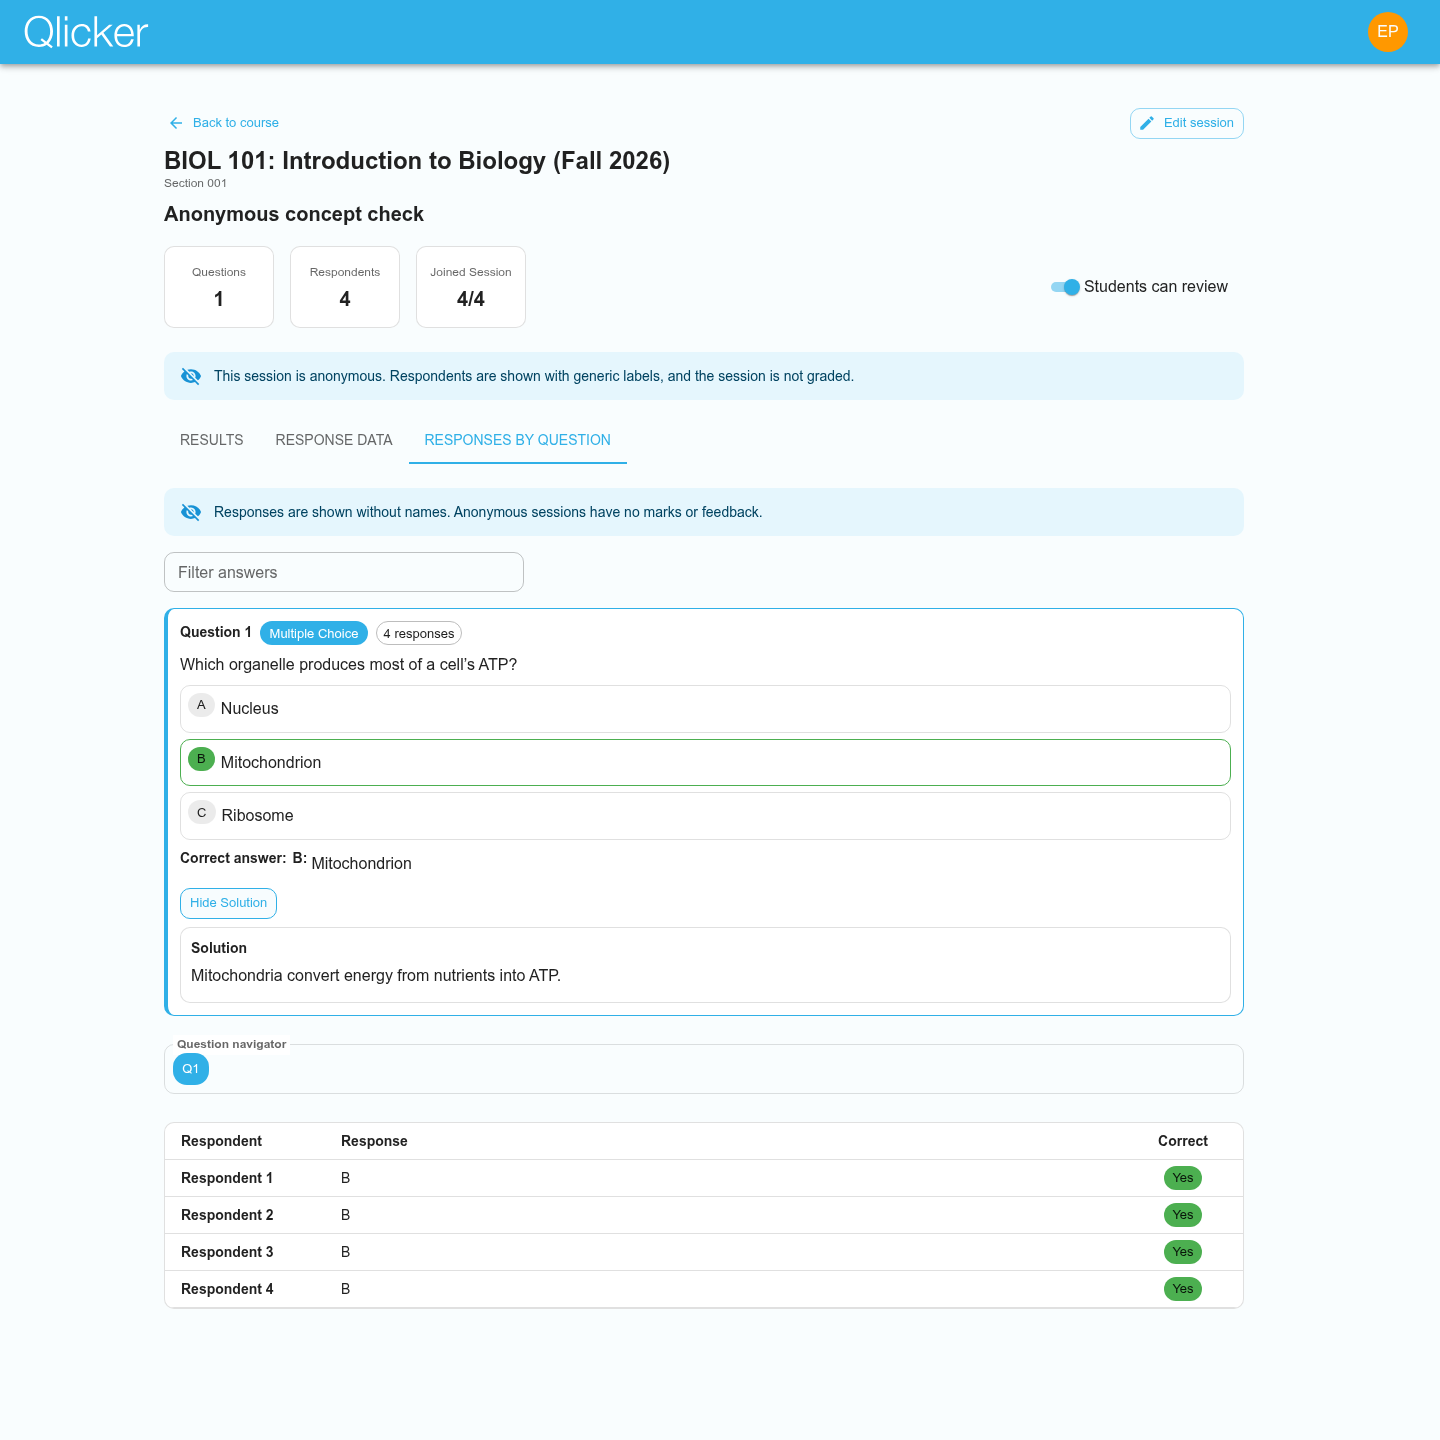
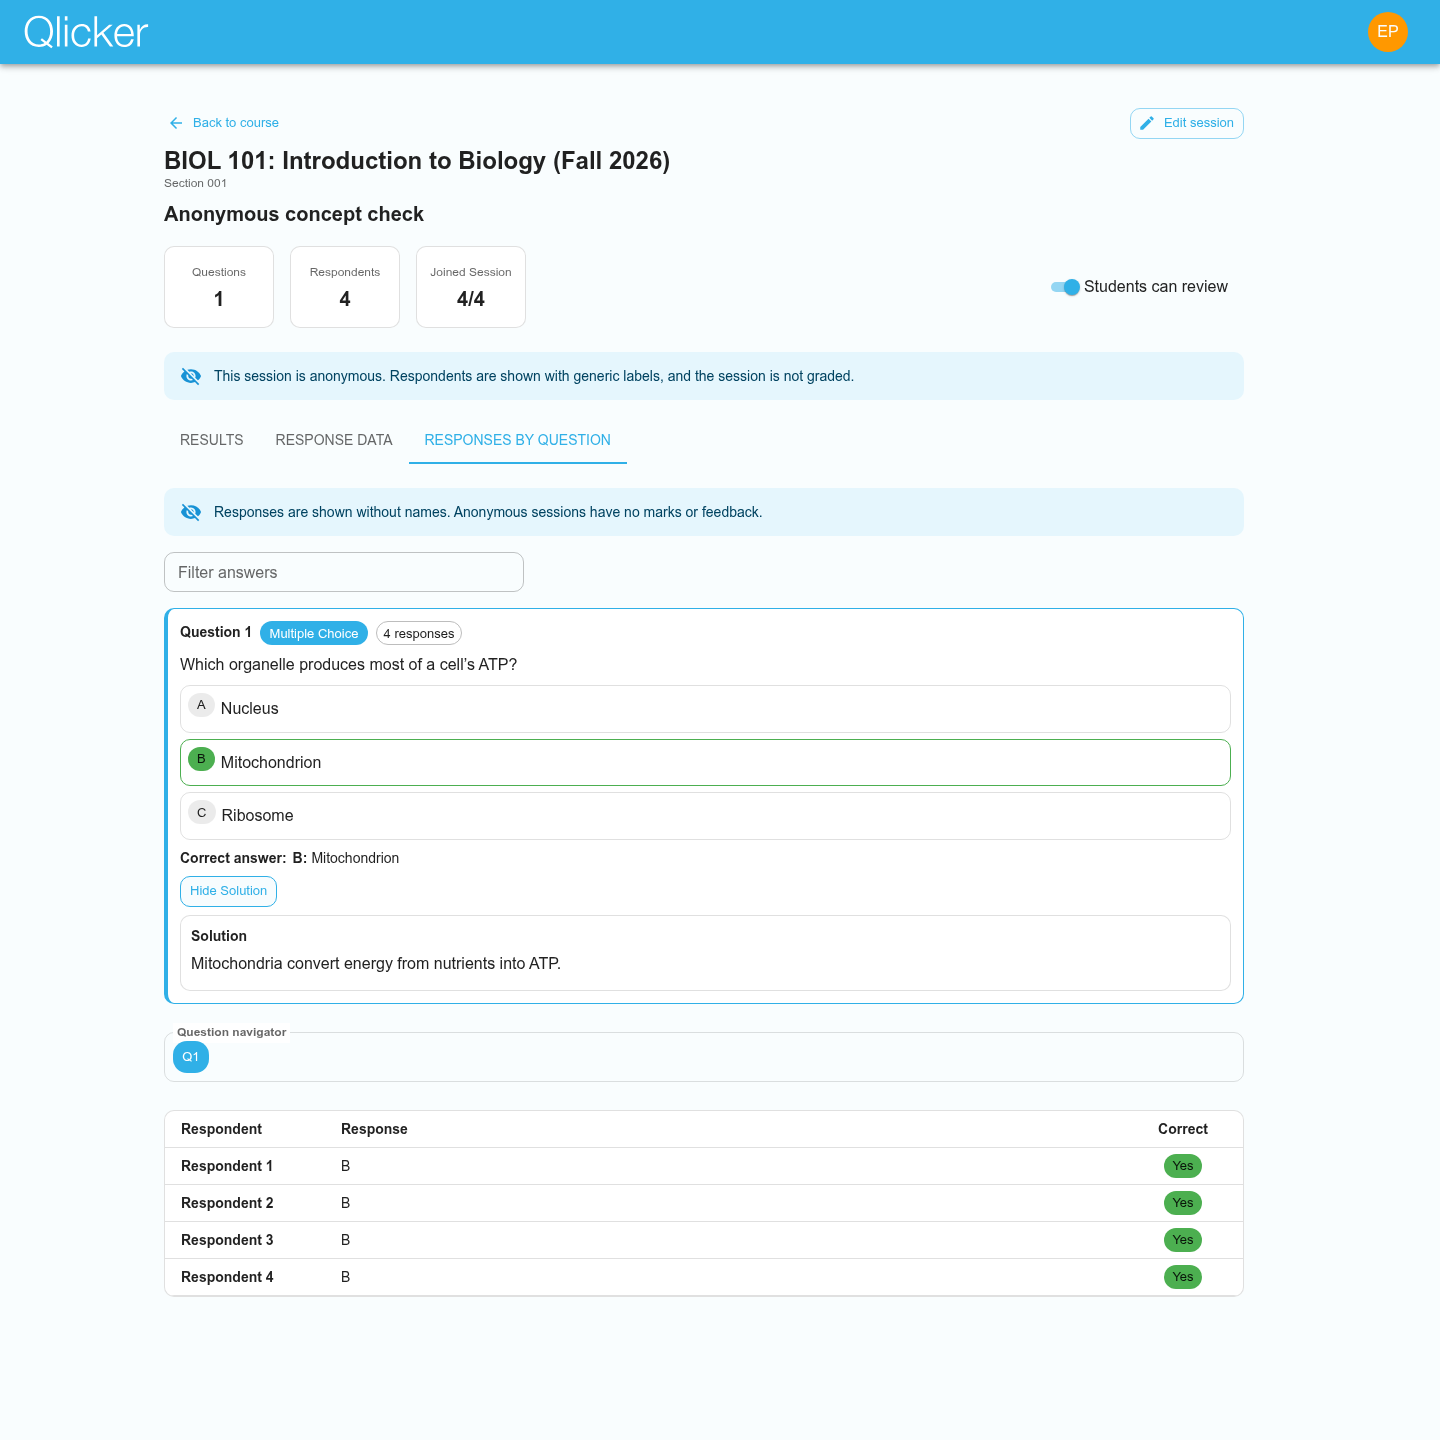
Align rich correct-answer summaries with their labels

diff --git a/client/src/components/grades/SessionQuestionGradingPanel.jsx b/client/src/components/grades/SessionQuestionGradingPanel.jsx
@@ -376,7 +376,7 @@ function summarizeUngradedFromGrades(gradesByStudentId = {}) {
   };
 }
 
-function RichContent({ html, fallback, allowVideoEmbeds = false }) {
+function RichContent({ html, fallback, allowVideoEmbeds = false, sx = {} }) {
   const ref = useRef(null);
   const prepared = prepareRichTextInput(
     html || '',
@@ -394,7 +394,7 @@ function RichContent({ html, fallback, allowVideoEmbeds = false }) {
   return (
     <Box
       ref={ref}
-      sx={richContentSx}
+      sx={[richContentSx, sx]}
       dangerouslySetInnerHTML={innerHtml}
     />
   );
@@ -736,7 +736,16 @@ export function ReviewQuestionPreview({ question: activeQuestion, number, ungrad
                     <Typography variant="body2" component="span" sx={{ fontWeight: 700 }}>
                       {OPTION_LETTERS[index] || String(index + 1)}:
                     </Typography>
-                    <RichContent html={optionContent.html} fallback={optionContent.fallback} />
+                    <RichContent
+                      html={optionContent.html}
+                      fallback={optionContent.fallback}
+                      sx={{
+                        typography: 'body2',
+                        minWidth: 0,
+                        '& > :first-of-type': { mt: 0 },
+                        '& > :last-child': { mb: 0 },
+                      }}
+                    />
                   </Box>
                 );
               })}
